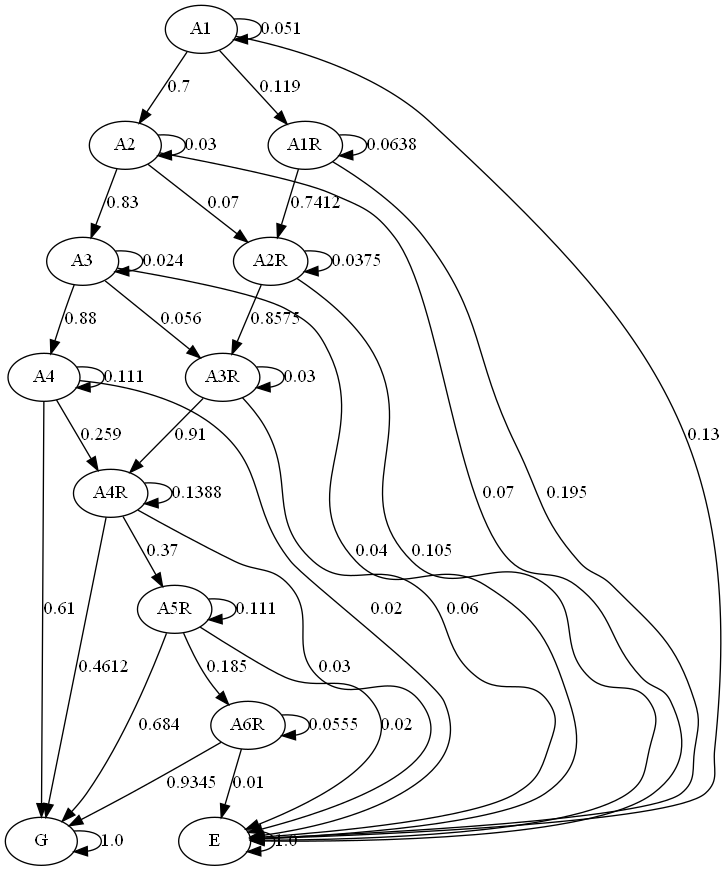
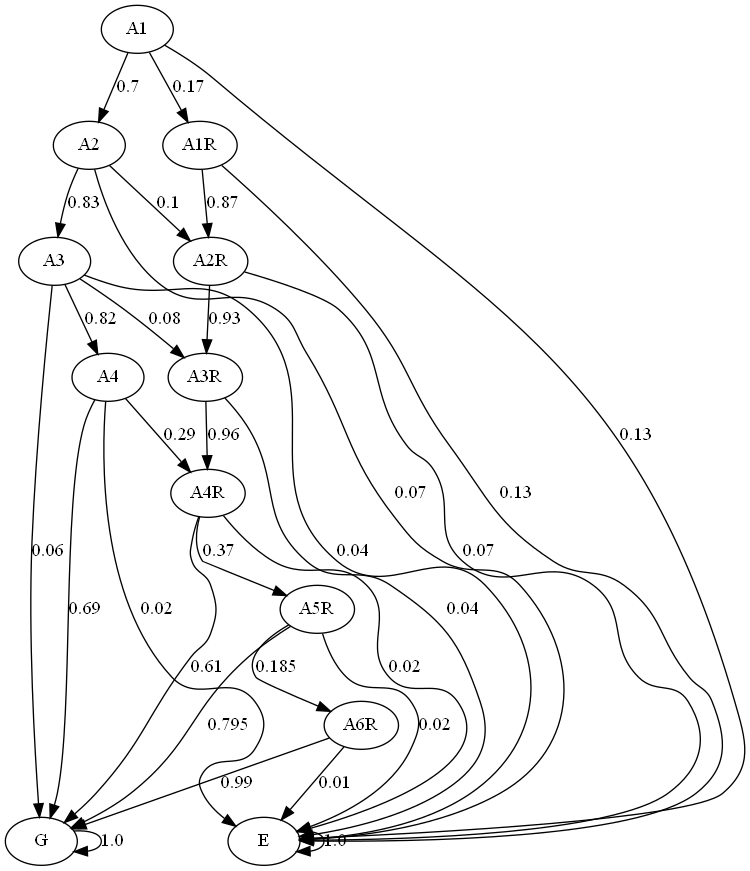
Pequenas Alterações

diff --git a/generate_mc.py b/generate_mc.py
@@ -179,7 +179,7 @@ ret = [A1toA1R, A2toA2R, A3toA3R, A4toA4R, A5toA5R]
 A1toA1R = 0.17 * taxaRetencao
 A2toA2R = 0.1 * taxaRetencao
 A3toA3R = 0.08 * taxaRetencao
-A4toA4R = 0.37 * taxaRetencao - 0.08
+A4toA4R = 0.37 * taxaRetencao
 
 # Evadir
 A1toE = 0.13 * taxaEvasao * taxaEvasaoA1
@@ -198,33 +198,51 @@ A1toA2 = 1 - A1toA1R - A1toE
 A1RtoA2R = 1 - A1RtoE
 A2toA3 = 1 - A2toA2R - A2toE
 A2RtoA3R = 1 - A2RtoE
-A3toA4 = 1 - A3toA3R - A3toE - 0.06
-A3RtoA4R = 1 - A3RtoE
+A3toA4 = 1 - A3toA3R - A3toE - 0.04
+A3RtoA4R = 1 - A3RtoE - 0.04
 A4RtoA5R = 0.37
 A5RtoA6R = 0.37/2
 
-A3toG = 0.06
-A3RtoG = 0.06
+A3toG = 0.04
+A3RtoG = 0.04
 A4toG = 1 - A4toA4R - A4toE
 A4RtoG = 1 - A4RtoA5R - A4RtoE
 A5RtoG = 1 - A5RtoA6R - A5RtoE
 A6RtoG = 1 - A6RtoE
 
-states = ['A1', 'A2', 'A3', 'A4', 'A1R', 'A2R', 'A3R', 'A4R', 'A5R', 'A6R', 'G', 'E']
+# states = ['A1', 'A2', 'A3', 'A4', 'A1R', 'A2R', 'A3R', 'A4R', 'A5R', 'A6R', 'G', 'E']
+# state = np.array([[1, 0, 0, 0, 0, 0, 0, 0, 0, 0, 0, 0]])
+#
+# p = [[0.0, A1toA2, 0.0, 0.0, A1toA1R, 0.0, 0.0, 0.0, 0.0, 0.0, 0.0, A1toE],
+#      [0.0, 0.0, A2toA3, 0.0, 0.0, A2toA2R, 0.0, 0.0, 0.0, 0.0, 0.0, A2toE],
+#      [0.0, 0.0, 0.0, A3toA4, 0.0, 0.0, A3toA3R, 0.0, 0.0, 0.0, A3toG, A3toE],
+#      [0.0, 0.0, 0.0, 0.0, 0.0, 0.0, 0.0, A4toA4R, 0.0, 0.0, A4toG, A4toE],
+#      [0.0, 0.0, 0.0, 0.0, 0.0, A1RtoA2R, 0.0, 0.0, 0.0, 0.0, 0.0, A1RtoE],
+#      [0.0, 0.0, 0.0, 0.0, 0.0, 0.0, A2RtoA3R, 0.0, 0.0, 0.0, 0.0, A2RtoE],
+#      [0.0, 0.0, 0.0, 0.0, 0.0, 0.0, 0.0, A3RtoA4R, 0.0, 0.0, A3RtoG, A3RtoE],
+#      [0.0, 0.0, 0.0, 0.0, 0.0, 0.0, 0.0, 0.0, A4RtoA5R, 0.0, A4RtoG, A4RtoE],
+#      [0.0, 0.0, 0.0, 0.0, 0.0, 0.0, 0.0, 0.0, 0.0, A5RtoA6R, A5RtoG, A5RtoE],
+#      [0.0, 0.0, 0.0, 0.0, 0.0, 0.0, 0.0, 0.0, 0.0, 0.0, A6RtoG, A6RtoE],
+#      [0.0, 0.0, 0.0, 0.0, 0.0, 0.0, 0.0, 0.0, 0.0, 0.0, 1.0, 0.0],
+#      [0.0, 0.0, 0.0, 0.0, 0.0, 0.0, 0.0, 0.0, 0.0, 0.0, 0.0, 1.0]]
+
+states = ['A1', 'A2', 'A3', 'A4', 'A1R', 'A2R', 'A3R', 'A4R', 'A5R', 'A6R', 'A7R', 'A8R', 'G', 'E']
 state = np.array([[1, 0, 0, 0, 0, 0, 0, 0, 0, 0, 0, 0]])
 
-p = [[0.0, A1toA2, 0.0, 0.0, A1toA1R, 0.0, 0.0, 0.0, 0.0, 0.0, 0.0, A1toE],
-     [0.0, 0.0, A2toA3, 0.0, 0.0, A2toA2R, 0.0, 0.0, 0.0, 0.0, 0.0, A2toE],
-     [0.0, 0.0, 0.0, A3toA4, 0.0, 0.0, A3toA3R, 0.0, 0.0, 0.0, A3toG, A3toE],
-     [0.0, 0.0, 0.0, 0.0, 0.0, 0.0, 0.0, A4toA4R, 0.0, 0.0, A4toG, A4toE],
-     [0.0, 0.0, 0.0, 0.0, 0.0, A1RtoA2R, 0.0, 0.0, 0.0, 0.0, 0.0, A1RtoE],
-     [0.0, 0.0, 0.0, 0.0, 0.0, 0.0, A2RtoA3R, 0.0, 0.0, 0.0, 0.0, A2RtoE],
-     [0.0, 0.0, 0.0, 0.0, 0.0, 0.0, 0.0, A3RtoA4R, 0.0, 0.0, 0.0, A3RtoE],
-     [0.0, 0.0, 0.0, 0.0, 0.0, 0.0, 0.0, 0.0, A4RtoA5R, 0.0, A4RtoG, A4RtoE],
-     [0.0, 0.0, 0.0, 0.0, 0.0, 0.0, 0.0, 0.0, 0.0, A5RtoA6R, A5RtoG, A5RtoE],
-     [0.0, 0.0, 0.0, 0.0, 0.0, 0.0, 0.0, 0.0, 0.0, 0.0, A6RtoG, A6RtoE],
-     [0.0, 0.0, 0.0, 0.0, 0.0, 0.0, 0.0, 0.0, 0.0, 0.0, 1.0, 0.0],
-     [0.0, 0.0, 0.0, 0.0, 0.0, 0.0, 0.0, 0.0, 0.0, 0.0, 0.0, 1.0]]
+p = [[0.0, A1toA2, 0.0, 0.0, A1toA1R, 0.0, 0.0, 0.0, 0.0, 0.0, 0.0, 0.0, 0.0, A1toE],
+     [0.0, 0.0, A2toA3, 0.0, 0.0, A2toA2R, 0.0, 0.0, 0.0, 0.0, 0.0, 0.0, 0.0, A2toE],
+     [0.0, 0.0, 0.0, A3toA4, 0.0, 0.0, A3toA3R, 0.0, 0.0, 0.0, 0.0, 0.0, A3toG, A3toE],
+     [0.0, 0.0, 0.0, 0.0, 0.0, 0.0, 0.0, A4toA4R, 0.0, 0.0, 0.0, 0.0, A4toG, A4toE],
+     [0.0, 0.0, 0.0, 0.0, 0.0, A1RtoA2R, 0.0, 0.0, 0.0, 0.0, 0.0, 0.0, 0.0, A1RtoE],
+     [0.0, 0.0, 0.0, 0.0, 0.0, 0.0, A2RtoA3R, 0.0, 0.0, 0.0, 0.0, 0.0, 0.0, A2RtoE],
+     [0.0, 0.0, 0.0, 0.0, 0.0, 0.0, 0.0, A3RtoA4R, 0.0, 0.0, 0.0, 0.0, A3RtoG, A3RtoE],
+     [0.0, 0.0, 0.0, 0.0, 0.0, 0.0, 0.0, 0.0, A4RtoA5R, 0.0, 0.0, 0.0, A4RtoG, A4RtoE],
+     [0.0, 0.0, 0.0, 0.0, 0.0, 0.0, 0.0, 0.0, 0.0, A4RtoA5R, 0.0, 0.0, A4RtoG, A4RtoE],
+     [0.0, 0.0, 0.0, 0.0, 0.0, 0.0, 0.0, 0.0, 0.0, 0.0, A4RtoA5R, 0.0, A4RtoG, A4RtoE],
+     [0.0, 0.0, 0.0, 0.0, 0.0, 0.0, 0.0, 0.0, 0.0, 0.0, 0.0, A4RtoA5R, A4RtoG, A4RtoE],
+     [0.0, 0.0, 0.0, 0.0, 0.0, 0.0, 0.0, 0.0, 0.0, 0.0, 0.0, 0.0, A6RtoG, A6RtoE],
+     [0.0, 0.0, 0.0, 0.0, 0.0, 0.0, 0.0, 0.0, 0.0, 0.0, 0.0, 0.0, 1.0, 0.0],
+     [0.0, 0.0, 0.0, 0.0, 0.0, 0.0, 0.0, 0.0, 0.0, 0.0, 0.0, 0.0, 0.0, 1.0]]
 
 
 # Gerar csv com matriz de transicao e desenho da cadeia de markov

diff --git a/simulation.py b/simulation.py
@@ -215,27 +215,38 @@ quantAlunos = 10000
 
 
 # Simulação Boumi
-# time, event, event_evadido, event_graduado = Simu(quantAlunos, 'matrix/matrixBoumi.csv')
-# sobrevivencia([time, time, time], [event_evadido, event_graduado, event], ['evasão', 'graduação', 'vínculo'], "Análise de Sobrevivência")
-#
-# timeA, eventA, event_evadidoA, event_graduadoA = Simu(quantAlunos, 'matrix/matrixBoumiAlterado.csv')
-# sobrevivencia([timeA, timeA, timeA], [event_evadidoA, event_graduadoA, eventA], ['evasão', 'graduação', 'vínculo'], "Análise de Sobrevivência")
-#
-# times = [time, timeA]
-# events = [event, eventA]
-# labels = ["Versão do Artigo Original", "Versão Adaptada"]
-#
-# sobrevivencia(times, events, labels, "Análise de Sobrevivência do Vínculo")
-#
-# events = [event_evadido, event_evadidoA]
-# sobrevivencia(times, events, labels, "Análise de Sobrevivência do Evasão")
-#
-# events = [event_graduado, event_graduadoA]
-# sobrevivencia(times, events, labels, "Análise de Sobrevivência do Graduação")
-#
-# results = logrank_test(time, timeA, event_graduado, event_graduadoA)
-# results.print_summary()
-# print(results.p_value)
+time, event, event_evadido, event_graduado = Simu(10000, 'matrix/matrixBoumi.csv')
+sobrevivencia([time, time, time], [event_evadido, event_graduado, event], ['evasão', 'graduação', 'vínculo'], "Análise de Sobrevivência")
+
+timeA, eventA, event_evadidoA, event_graduadoA = Simu(10000, 'matrix/matrixBoumiAlterado.csv')
+sobrevivencia([timeA, timeA, timeA], [event_evadidoA, event_graduadoA, eventA], ['evasão', 'graduação', 'vínculo'], "Análise de Sobrevivência")
+
+times = [time, timeA]
+events = [event, eventA]
+labels = ["Versão do Artigo Original", "Versão Adaptada"]
+
+sobrevivencia(times, events, labels, "Análise de Sobrevivência do Vínculo")
+
+events = [event_evadido, event_evadidoA]
+sobrevivencia(times, events, labels, "Análise de Sobrevivência do Evasão")
+
+events = [event_graduado, event_graduadoA]
+sobrevivencia(times, events, labels, "Análise de Sobrevivência do Graduação")
+
+print("Graduado")
+results = logrank_test(time, timeA, event_graduado, event_graduadoA)
+results.print_summary()
+print(results.p_value)
+
+print("Vinculado")
+results = logrank_test(time, timeA, event, eventA)
+results.print_summary()
+print(results.p_value)
+
+print("Evadido")
+results = logrank_test(time, timeA, event_evadido, event_evadidoA)
+results.print_summary()
+print(results.p_value)
 
 
 # Simulação Geral
@@ -247,9 +258,9 @@ quantAlunos = 10000
 
 
 # Simulação BSI-BCC
-time, event, event_evadido, event_graduado = Simu(10000, 'matrix/bsi-bcc.csv')
-
-sobrevivencia([time, time, time], [event_evadido, event_graduado, event], ['evasão', 'graduação', 'vínculo'], "Análise de Sobrevivência")
+# time, event, event_evadido, event_graduado = Simu(10000, 'matrix/bsi-bcc.csv')
+#
+# sobrevivencia([time, time, time], [event_evadido, event_graduado, event], ['evasão', 'graduação', 'vínculo'], "Análise de Sobrevivência")
 
 
 # Simulação BSI-BCC - Sexo
@@ -262,7 +273,7 @@ sobrevivencia([time, time, time], [event_evadido, event_graduado, event], ['evas
 #
 # times = [time_f, time_m]
 # events = [event_f, event_m]
-# labels = ["Femino", "Masculino"]
+# labels = ["Feminino", "Masculino"]
 #
 # sobrevivencia(times, events, labels, "Análise de Sobrevivência do Vínculo para Sexo")
 #

diff --git a/generate_probabilities.py b/generate_probabilities.py
@@ -110,7 +110,7 @@ def quantity_matrix(df, n):
     e.append(0)  # linha evadido
     M[:, n-1] = e
 
-    # adiciona quantidade de vinculados na tabela
+    # adiciona quantidade de graduados na tabela
     for i in range(1, n-1):
         x = df.loc[(df['DURACAO_VINCULO'] == i) & (df['STATUS'] == 'CONCLUIDO')]
         if x.QTD.empty:
@@ -137,16 +137,18 @@ def quantity_matrix(df, n):
 
     return M
 
-
-# TODO Falta corrigir o valor do progresso entre anos
 def aplicar_parametros(p, taxa_evasao):
+    taxa_progresso = 2 - taxa_evasao
 
-    print(p)
     n = len(p)
 
+    new_value = p.iloc[:, n-1] * taxa_progresso
     p.iloc[:, n-1] = p.iloc[:, n-1] * taxa_evasao
 
-    print(p)
+    for i in range(n):
+        for j in range(n):
+            if j == i + 1:
+                p.iloc[i, j] = p.iloc[i, j] - new_value[i]
 
     return p
 
@@ -156,7 +158,7 @@ states = ['A1', 'A2', 'A3', 'A4', 'A5', 'A6', 'A7', 'A8', 'A9', 'A10', 'A11', 'G
 # taxa_evasao = 1.5
 # new_p = aplicar_parametros(p, taxa_evasao)
 # print(new_p)
-# generate_csv_and_diagram("matrix/bsi-bcc.csv", states, new_p)
+# generate_csv_and_diagram("matrix/bsi-bcc-taxa_evasao.csv", states, new_p)
 
 
 # Todos Estudantes
